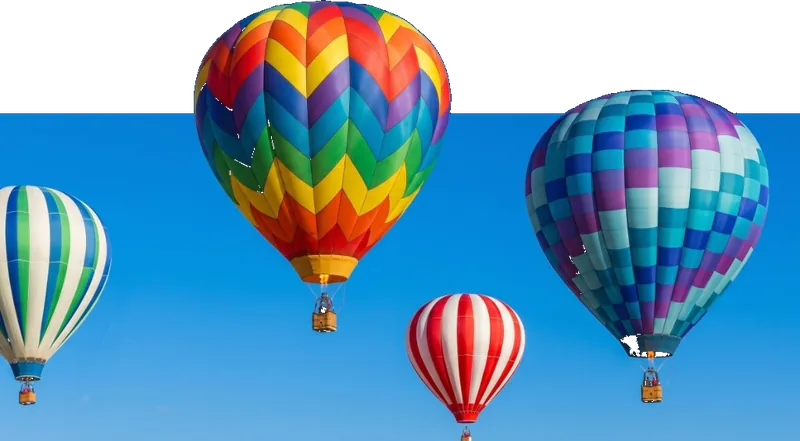
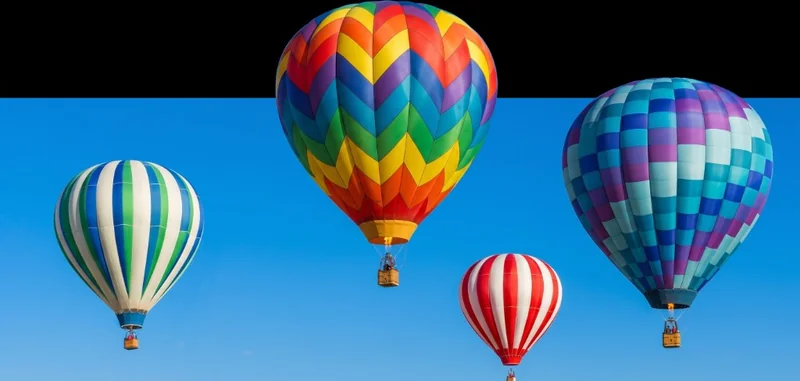
Fix balloon transparency without removing internal black details.
Strip only the top black bar rows instead of globally keying out black pixels, preserving basket and shadow details in the artwork.

diff --git a/index.html b/index.html
@@ -2184,7 +2184,7 @@
         <div class="registration-left">
           <div class="registration-media">
             <figure class="registration-visual">
-              <img src="assets/backgroundmongolfiere-card.webp" alt="Mongolfiere colorate nel cielo per rappresentare un momento di incontro e confronto con la community" width="800" height="441" loading="lazy" decoding="async" />
+              <img src="assets/backgroundmongolfiere-card.webp" alt="Mongolfiere colorate nel cielo per rappresentare un momento di incontro e confronto con la community" width="800" height="381" loading="lazy" decoding="async" />
             </figure>
             <div class="registration-copy">
               <p class="kicker">Webinar gratuito</p>
